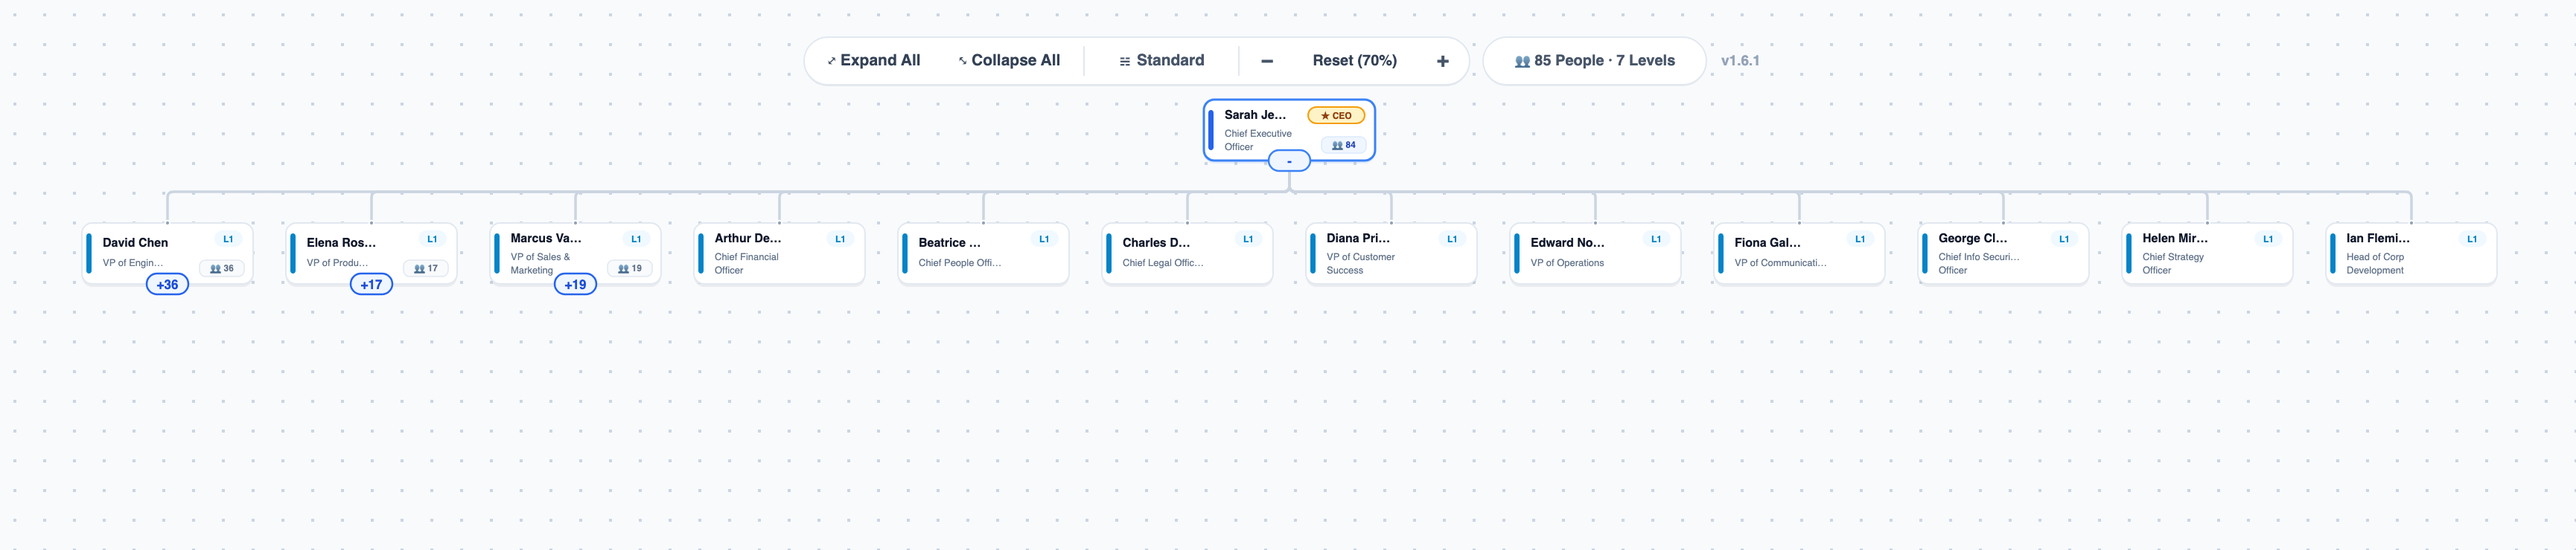
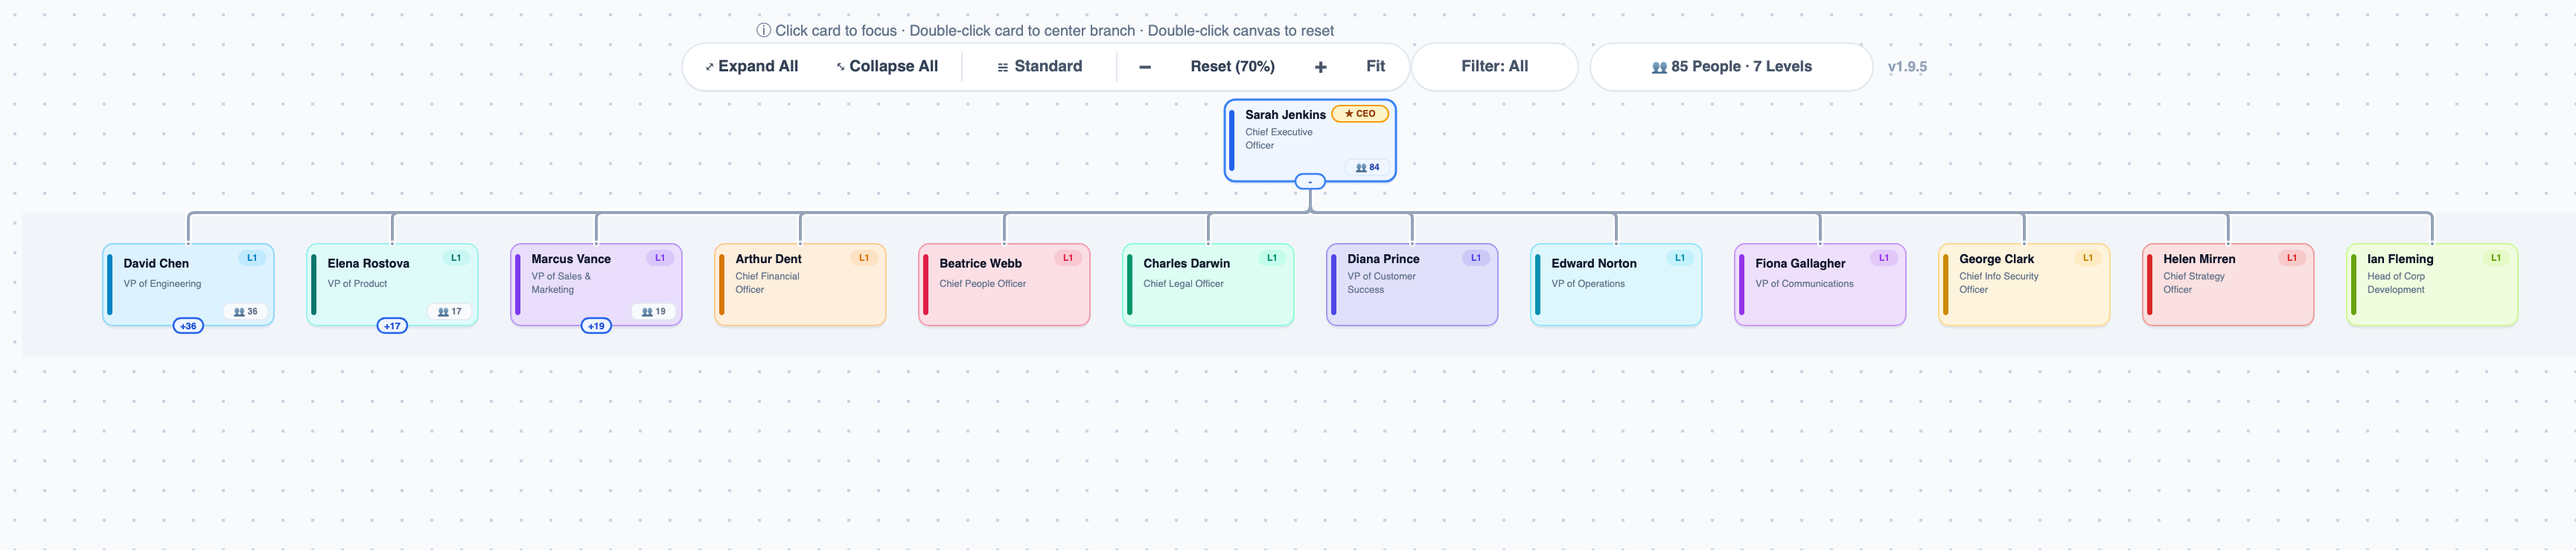
docs: refresh showcase screenshots for v1.9.5 and add screenshot generator

Changed region(s): [[0.0312, 0.0311, 0.9988, 0.6216]]

diff --git a/tools/generate-screenshots.js b/tools/generate-screenshots.js
@@ -1,0 +1,165 @@
+const fs = require('fs');
+const path = require('path');
+const { execFileSync } = require('child_process');
+
+const rootDir = path.resolve(__dirname, '..');
+const specPath = path.join(rootDir, 'deneb-org-chart.json');
+const vegaJsPath = path.join(rootDir, 'node_modules/vega/build/vega.min.js');
+
+const chromePath = '/Applications/Google Chrome.app/Contents/MacOS/Google Chrome';
+const vegaJs = fs.readFileSync(vegaJsPath, 'utf8');
+
+const scenes = [
+  {
+    name: 'org-chart-overview',
+    title: 'Executive Overview',
+    width: 1730,
+    height: 370,
+    signals: {
+      enableStacking: false,
+      zoomLevel: 0.70,
+      panX: 0,
+      panY: 0,
+      expandedIds: '',
+      collapsedIds: '',
+      focusedId: null,
+      focusedAncPath: '',
+      hoveredId: null,
+      hoveredAncPath: ''
+    }
+  },
+  {
+    name: 'org-chart-hover-lineage',
+    title: 'Active Reporting-Line Highlighting & Branch Focus Mode',
+    width: 2330,
+    height: 490,
+    signals: {
+      enableStacking: false,
+      zoomLevel: 0.85,
+      panX: 420,
+      panY: -5,
+      expandedIds: '\u001F2\u001F6\u001F',
+      collapsedIds: '',
+      focusedId: '18',
+      focusedAncPath: '\u001F1\u001F2\u001F6\u001F18\u001F',
+      hoveredId: '18',
+      hoveredAncPath: '\u001F1\u001F2\u001F6\u001F18\u001F'
+    }
+  },
+  {
+    name: 'org-chart-stacked-mode',
+    title: 'Compact 2-Column Stacking',
+    width: 2480,
+    height: 770,
+    signals: {
+      enableStacking: true,
+      zoomLevel: 0.70,
+      panX: 470,
+      panY: -30,
+      expandedIds: '\u001F2\u001F5\u001F6\u001F7\u001F20\u001F21\u001F',
+      collapsedIds: '',
+      focusedId: null,
+      focusedAncPath: '',
+      hoveredId: null,
+      hoveredAncPath: ''
+    }
+  }
+];
+
+function generateHtml(scene) {
+  const baseSpec = JSON.parse(fs.readFileSync(specPath, 'utf8'));
+
+  baseSpec.signals = baseSpec.signals.map(s => {
+    if (s.name === 'minCanvasWidth') return { ...s, value: scene.width };
+    if (s.name === 'minCanvasHeight') return { ...s, value: scene.height };
+    if (scene.signals[s.name] !== undefined) {
+      const copy = { ...s };
+      copy.value = scene.signals[s.name];
+      if (s.update && !['width', 'height', 'toolbarOriginX', 'activeHighlightId', 'activeHighlightAncPath'].includes(s.name)) {
+        delete copy.update;
+      }
+      return copy;
+    }
+    return s;
+  });
+
+  return `<!DOCTYPE html>
+<html>
+<head>
+  <meta charset="utf-8">
+  <style>
+    * { box-sizing: border-box; }
+    html, body {
+      margin: 0;
+      padding: 0;
+      width: ${scene.width}px;
+      height: ${scene.height}px;
+      overflow: hidden;
+      background-color: #f8fafc;
+      background-image: radial-gradient(#cbd5e1 1.25px, transparent 1.25px);
+      background-size: 20px 20px;
+    }
+    #vis {
+      width: ${scene.width}px;
+      height: ${scene.height}px;
+      display: block;
+    }
+  </style>
+  <script>${vegaJs}</script>
+</head>
+<body>
+  <div id="vis"></div>
+  <script>
+    const spec = ${JSON.stringify(baseSpec)};
+    const view = new vega.View(vega.parse(spec), {
+      renderer: 'svg',
+      container: '#vis',
+      hover: true
+    });
+    view.runAsync().then(() => {
+      window.__VEGA_DONE__ = true;
+    });
+  </script>
+</body>
+</html>`;
+}
+
+function run() {
+  const tmpDir = path.join('/tmp', 'deneb-screenshots');
+  fs.mkdirSync(tmpDir, { recursive: true });
+
+  const outDir = process.argv.includes('--apply')
+    ? path.join(rootDir, 'images')
+    : path.join('/tmp', 'screenshots-preview');
+  fs.mkdirSync(outDir, { recursive: true });
+
+  console.log(`Generating screenshots to ${outDir}...`);
+
+  for (const scene of scenes) {
+    const htmlContent = generateHtml(scene);
+    const htmlFile = path.join(tmpDir, `${scene.name}.html`);
+    fs.writeFileSync(htmlFile, htmlContent, 'utf8');
+
+    const outFile = path.join(outDir, `${scene.name}.png`);
+
+    console.log(`Rendering ${scene.name} (${scene.width}x${scene.height} @ 2x)...`);
+    execFileSync(chromePath, [
+      '--headless=new',
+      '--no-sandbox',
+      '--disable-gpu',
+      '--disable-crash-reporter',
+      '--user-data-dir=/tmp/chrome-screenshot-user-data',
+      '--force-device-scale-factor=2',
+      `--window-size=${scene.width},${scene.height}`,
+      '--virtual-time-budget=3000',
+      '--run-all-compositor-stages-before-draw',
+      `--screenshot=${outFile}`,
+      `file://${htmlFile}`
+    ], { stdio: 'pipe' });
+
+    console.log(`  -> Saved ${outFile}`);
+  }
+  console.log('Done!');
+}
+
+run();
